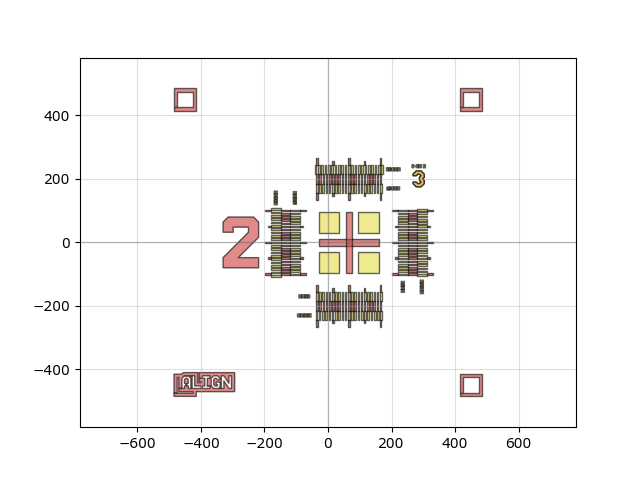
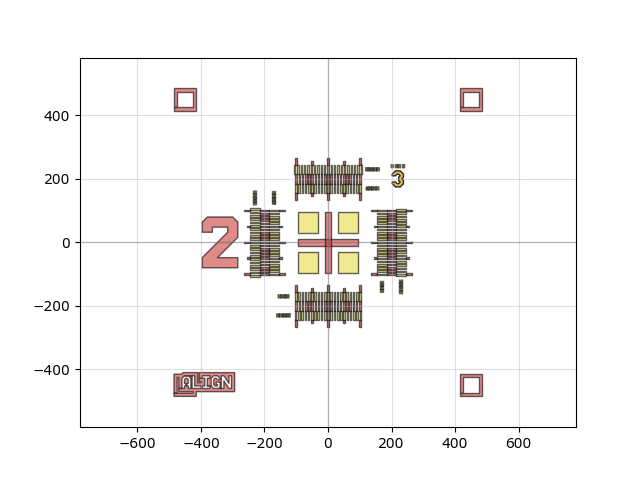
correctly positioned alignment marks, generated new api

Changed region(s): [[0.3125, 0.3125, 0.6875, 0.6875]]

diff --git a/src/qnngds/tests.py b/src/qnngds/tests.py
@@ -1,10 +1,11 @@
-""" Tests contains common test structures for following/characterizing a
-fabrication process and its effect on the materials. """
+"""Tests contains common test structures for following/characterizing a
+fabrication process and its effect on the materials."""
 
 from phidl import Device
 import phidl.geometry as pg
 from typing import List, Union
 import math
+
 
 def alignment_mark(layers: List[int] = [1, 2, 3, 4]) -> Device:
     """Creates an alignment mark for each photolithography.
@@ -105,7 +106,9 @@ def alignment_mark(layers: List[int] = [1, 2, 3, 4]) -> Device:
             text = ALIGN << pg.text(str(layer1), size=160, layer=layer1)
             text.move(text.center, (-340, i * markers_pitch))
 
-    ALIGN.move(ALIGN.center, (0, 0))
+    num_layers = len(layers)
+    offset = -(num_layers - 2) * markers_pitch / 2
+    ALIGN.move((0, 0), (offset, offset))
     return ALIGN
 
 
@@ -220,8 +223,7 @@ def resolution_test(
 
 
 def vdp(l: float = 400, w: float = 40, layer: int = 1) -> Device:
-    """
-    Creates a Van der Pauw (VDP) device with specified dimensions.
+    """Creates a Van der Pauw (VDP) device with specified dimensions.
 
     Args:
         l (float): Length of the VDP device, overall maximum dimension, in µm.
@@ -230,20 +232,19 @@ def vdp(l: float = 400, w: float = 40, layer: int = 1) -> Device:
 
     Returns:
         Device: VDP device object.
-
     """
     VDP = pg.Device("VAN DER PAUW")
-    
-    xpts = [-w/2, w/2, l/2, l/2, w/2, -w/2, -l/2, -l/2]
-    ypts = [l/2, l/2, w/2, -w/2, -l/2, -l/2, -w/2, w/2]
+
+    xpts = [-w / 2, w / 2, l / 2, l / 2, w / 2, -w / 2, -l / 2, -l / 2]
+    ypts = [l / 2, l / 2, w / 2, -w / 2, -l / 2, -l / 2, -w / 2, w / 2]
 
     polygon = pg.polygon_ports(xpts=xpts, ypts=ypts, layer=layer)
     VDP << polygon
     VDP.flatten()
 
-    VDP.add_port(port= polygon.ports['1'], name='N1')
-    VDP.add_port(port= polygon.ports['3'], name='E1')
-    VDP.add_port(port= polygon.ports['5'], name='S1')
-    VDP.add_port(port= polygon.ports['7'], name='W1')
+    VDP.add_port(port=polygon.ports["1"], name="N1")
+    VDP.add_port(port=polygon.ports["3"], name="E1")
+    VDP.add_port(port=polygon.ports["5"], name="S1")
+    VDP.add_port(port=polygon.ports["7"], name="W1")
 
     return VDP
